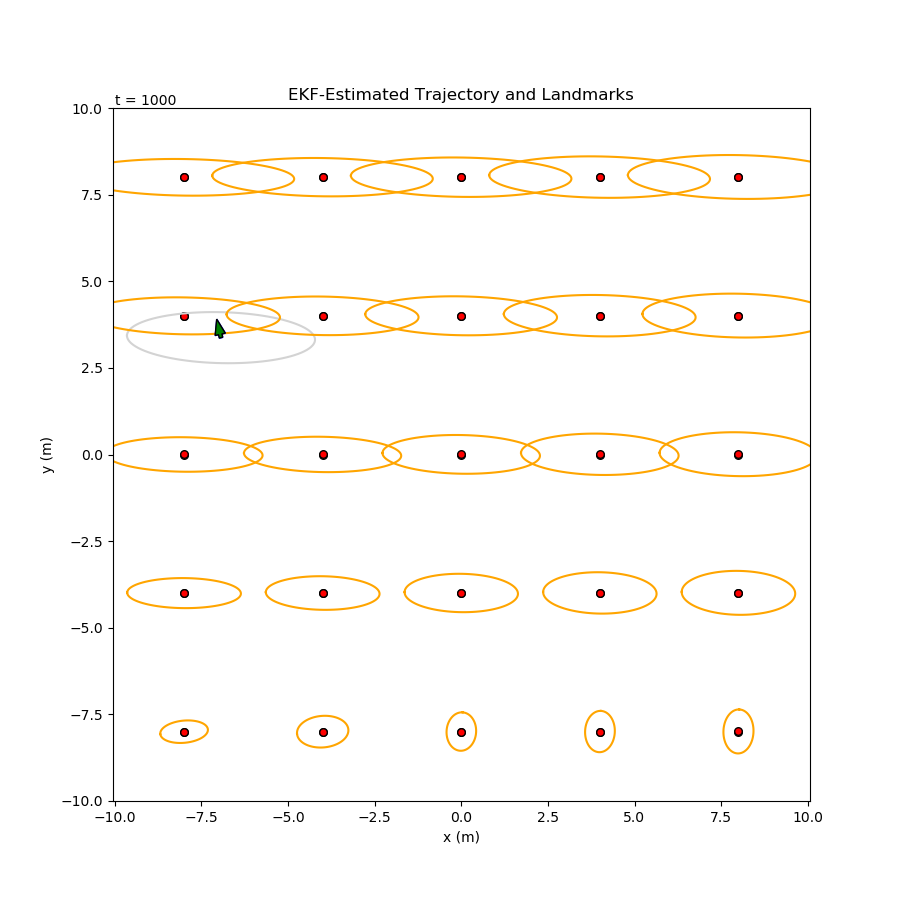
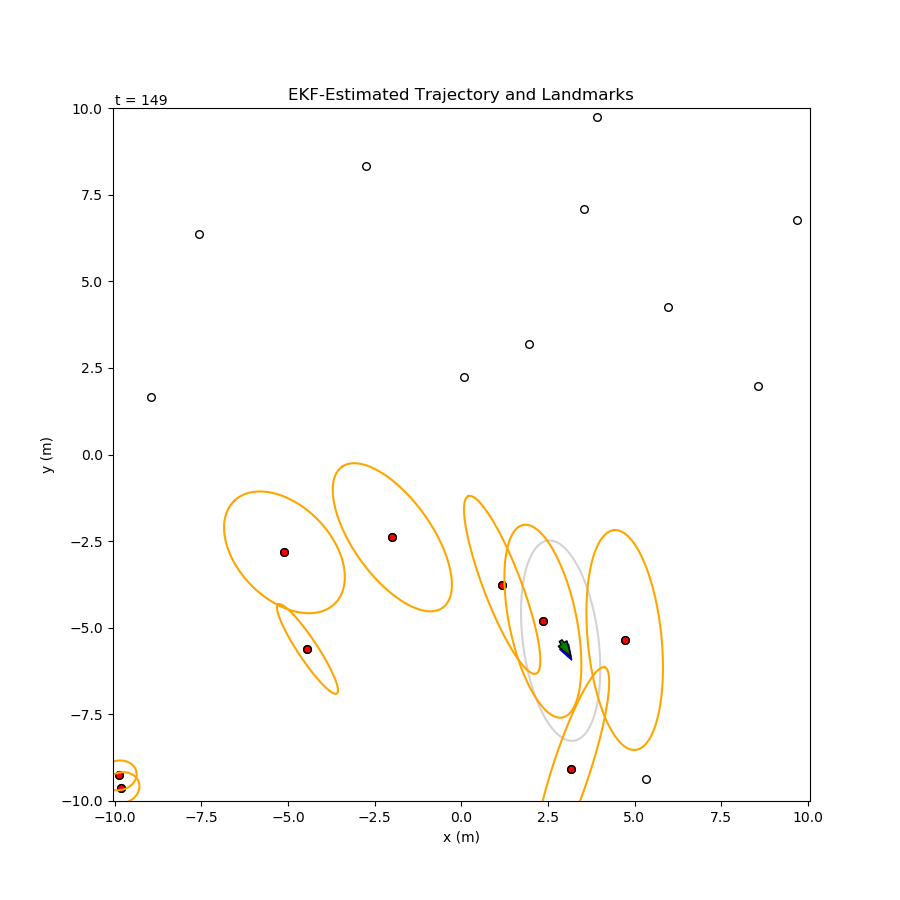
Discovered many build errors when updating UKFState. Moved all messages to data_pkg to remove interdependency. Modified all CMakeLists to get things working. Added UKF sigma points to UKFState message and showing them on plot.

diff --git a/ekf_ws/src/data_pkg/src/plotting_node.py b/ekf_ws/src/data_pkg/src/plotting_node.py
@@ -9,9 +9,7 @@ import rospkg
 from std_msgs.msg import Float32MultiArray
 from geometry_msgs.msg import Vector3
 from sensor_msgs.msg import Image
-from ekf_pkg.msg import EKFState
-from ukf_pkg.msg import UKFState
-from pf_pkg.msg import PFState
+from data_pkg.msg import EKFState, UKFState, PFState
 from matplotlib.backend_bases import MouseButton
 from matplotlib import pyplot as plt
 import numpy as np
@@ -67,11 +65,11 @@ def update_plot(filter:str, msg):
         plots["timestep"].remove()
     plots["timestep"] = plt.text(-Config.params["MAP_BOUND"], Config.params["MAP_BOUND"], 't = '+str(msg.timestep), horizontalalignment='left', verticalalignment='bottom', zorder=2)
 
-    ####################### EKF SLAM #########################
+    ####################### EKF/UKF SLAM #########################
     if filter == "ekf" or filter == "ukf":
-        plt.title("EKF-Estimated Trajectory and Landmarks")
+        plt.title(filter.upper()+"-Estimated Trajectory and Landmarks")
         ################ VEH POS #################
-        # plot current EKF-estimated veh pos.
+        # plot current estimated veh pos.
         if not Config.params["SHOW_ENTIRE_TRAJ"] and "veh_pos_est" in plots.keys():
             plots["veh_pos_est"].remove()
             del plots["veh_pos_est"]
@@ -113,6 +111,27 @@ def update_plot(filter:str, msg):
                 lm_ell = cov_to_ellipse(np.array([[msg.P[3+2*i],msg.P[4+2*i]],[msg.P[n+3+2*i],msg.P[n+4+2*i]]]))
                 # plot its ellipse.
                 plots["lm_cov_est"][lm_id], = plt.plot(lm_x[i]+lm_ell[0,:] , lm_y[i]+lm_ell[1,:],'orange', zorder=1)
+        
+        ############## UKF SIGMA POINTS ##################
+        if filter == "ukf":
+            ######### current sigma pts.
+            X_x = [msg.X[i] for i in range(0,len(msg.X),3)]
+            X_y = [msg.X[i] for i in range(1,len(msg.X),3)]
+            # remove old points.
+            if "sigma_pts" in plots.keys():
+                plots["sigma_pts"].remove()
+                del plots["sigma_pts"]
+            # plot sigma points.
+            plots["sigma_pts"] = plt.scatter(X_x, X_y, s=30, color="tab:olive", zorder=1)
+            ######### predicted sigma pts.
+            X_x = [msg.X_pred[i] for i in range(0,len(msg.X_pred),3)]
+            X_y = [msg.X_pred[i] for i in range(1,len(msg.X_pred),3)]
+            # remove old points.
+            if "sigma_pts_pred" in plots.keys():
+                plots["sigma_pts_pred"].remove()
+                del plots["sigma_pts_pred"]
+            # plot sigma points.
+            plots["sigma_pts_pred"] = plt.scatter(X_x, X_y, s=30, color="tab:cyan", zorder=1)
 
     ############## PARTICLE FILTER LOCALIZATION #####################
     elif filter == "pf":
@@ -153,7 +172,7 @@ def get_ekf_state(msg):
 # get the state published by the UKF.
 def get_ukf_state(msg):
     global fname
-    # set filename for EKF.
+    # set filename for UKF.
     fname = "ukf"
     # update the plot.
     update_plot("ukf", msg)

diff --git a/ekf_ws/src/ukf_pkg/src/ukf.cpp b/ekf_ws/src/ukf_pkg/src/ukf.cpp
@@ -42,9 +42,11 @@ void UKF::setTrueMap(std_msgs::Float32MultiArray::ConstPtr trueMapMsg) {
     this->map = trueMapMsg->data;    
 }
 
-ukf_pkg::UKFState UKF::getState() {
+data_pkg::UKFState UKF::getState() {
+    // state length for convenience.
+    int n = 2 * this->M + 3;
     // return the state as a message.
-    ukf_pkg::UKFState stateMsg;
+    data_pkg::UKFState stateMsg;
     // timestep.
     stateMsg.timestep = this->timestep;
     // vehicle pose.
@@ -54,7 +56,7 @@ ukf_pkg::UKFState UKF::getState() {
     // landmarks.
     stateMsg.M = this->M;
     std::vector<float> lm;
-    for (int i=0; i<M; ++i) {
+    for (int i=0; i<this->M; ++i) {
         lm.push_back((float) this->lm_IDs[i]);
         lm.push_back(this->x_t(3+i*2));
         lm.push_back(this->x_t(3+i*2+1));
@@ -62,12 +64,24 @@ ukf_pkg::UKFState UKF::getState() {
     stateMsg.landmarks = lm;
     // covariance. collapse all rows side by side into a vector.
     std::vector<float> p;
-    for (int i=0; i<2*M+3; ++i) {
-        for (int j=0; j<2*M+3; ++j) {
+    for (int i=0; i<n; ++i) {
+        for (int j=0; j<n; ++j) {
             p.push_back(this->P_t(i,j));
         }
     }
     stateMsg.P = p;
+    // sigma points. also collapse into a vector.
+    std::vector<float> sigma_pts;
+    std::vector<float> sigma_pts_propagated;
+    for (int i=0; i<n; ++i) {
+        for (int j=0; j<2*n+1; ++j) {
+            sigma_pts.push_back(this->X(i,j));
+            sigma_pts_propagated.push_back(this->X_pred(i,j));
+        }
+    }
+    stateMsg.X = sigma_pts;
+    stateMsg.X_pred = sigma_pts_propagated;
+
     return stateMsg;
 }
 

diff --git a/ekf_ws/src/data_pkg/src/sim_node.py b/ekf_ws/src/data_pkg/src/sim_node.py
@@ -150,13 +150,13 @@ def generate_full_trajectory():
 
 def generate_landmarks(map_type:str):
     """
-    Create a set of 20 landmarks forming the map.
+    Create a set of landmarks forming the map.
     """
     global landmarks
     # key = integer ID. value = (x,y) position.
     landmarks = {}
 
-    if map_type in ["demo", "demo_map"]:
+    if map_type == "demo":
         # force number of landmarks to match.
         Config.params["NUM_LANDMARKS"] = len(demo_map.keys()) 
         landmarks = demo_map
@@ -164,9 +164,9 @@ def generate_landmarks(map_type:str):
         # place landmarks on a grid filling the bounds.
         shift = Config.params["GRID_STEP"] / 2
         id = 0
-        for r in np.arange(-Config.params["MAP_BOUND"], Config.params["MAP_BOUND"], Config.params["GRID_STEP"]):
-            for c in np.arange(-Config.params["MAP_BOUND"], Config.params["MAP_BOUND"], Config.params["GRID_STEP"]):
-                landmarks[id] = (shift + r, shift + c)
+        for r in np.arange(-Config.params["MAP_BOUND"]+shift, Config.params["MAP_BOUND"], Config.params["GRID_STEP"]):
+            for c in np.arange(-Config.params["MAP_BOUND"]+shift, Config.params["MAP_BOUND"], Config.params["GRID_STEP"]):
+                landmarks[id] = (r, c)
                 id += 1
         # update number of landmarks used.
         Config.params["NUM_LANDMARKS"] = id

diff --git a/ekf_ws/src/ekf_pkg/src/ekf.cpp b/ekf_ws/src/ekf_pkg/src/ekf.cpp
@@ -155,8 +155,8 @@ void EKF::update(data_pkg::Command::ConstPtr cmdMsg, std_msgs::Float32MultiArray
 }
 
 // return the state as a message.
-ekf_pkg::EKFState EKF::getState() {
-    ekf_pkg::EKFState stateMsg;
+data_pkg::EKFState EKF::getState() {
+    data_pkg::EKFState stateMsg;
     // timestep.
     stateMsg.timestep = this->timestep;
     // vehicle pose.
@@ -166,7 +166,7 @@ ekf_pkg::EKFState EKF::getState() {
     // landmarks.
     stateMsg.M = this->M;
     std::vector<float> lm;
-    for (int i=0; i<M; ++i) {
+    for (int i=0; i<this->M; ++i) {
         lm.push_back((float) this->lm_IDs[i]);
         lm.push_back(this->x_t(3+i*2));
         lm.push_back(this->x_t(3+i*2+1));
@@ -174,8 +174,8 @@ ekf_pkg::EKFState EKF::getState() {
     stateMsg.landmarks = lm;
     // covariance. collapse all rows side by side into a vector.
     std::vector<float> p;
-    for (int i=0; i<2*M+3; ++i) {
-        for (int j=0; j<2*M+3; ++j) {
+    for (int i=0; i<2*this->M+3; ++i) {
+        for (int j=0; j<2*this->M+3; ++j) {
             p.push_back(this->P_t(i,j));
         }
     }

diff --git a/ekf_ws/src/ekf_pkg/src/ekf_node.cpp b/ekf_ws/src/ekf_pkg/src/ekf_node.cpp
@@ -61,7 +61,7 @@ void ekfIterate(const ros::TimerEvent& event) {
     // call the EKF's update function.
     ekf.update(cmdMsg, lmMeasMsg);
     // get the current state estimate.
-    ekf_pkg::EKFState stateMsg = ekf.getState();
+    data_pkg::EKFState stateMsg = ekf.getState();
     // publish it.
     statePub.publish(stateMsg);
 }
@@ -89,7 +89,7 @@ int main(int argc, char **argv) {
     ros::Subscriber cmdSub = node.subscribe("/command", 100, cmdCallback);
     ros::Subscriber lmMeasSub = node.subscribe("/landmark", 100, lmMeasCallback);
     // publish EKF state.
-    statePub = node.advertise<ekf_pkg::EKFState>("/state/ekf", 1);
+    statePub = node.advertise<data_pkg::EKFState>("/state/ekf", 1);
 
     // timer to update EKF at set frequency.
     ros::Timer ekfIterationTimer = node.createTimer(ros::Duration(DT), &ekfIterate, false);

diff --git a/ekf_ws/src/ukf_pkg/src/ukf_node.cpp b/ekf_ws/src/ukf_pkg/src/ukf_node.cpp
@@ -81,7 +81,7 @@ void ekfIterate(const ros::TimerEvent& event) {
         ukf.localizationUpdate(odomMsg, lmMeasMsg);
     }
     // get the current state estimate.
-    ukf_pkg::UKFState stateMsg = ukf.getState();
+    data_pkg::UKFState stateMsg = ukf.getState();
     // publish it.
     statePub.publish(stateMsg);
 }
@@ -116,7 +116,7 @@ int main(int argc, char **argv) {
     ros::Subscriber lmMeasSub = node.subscribe("/landmark", 100, lmMeasCallback);
     ros::Subscriber trueMapSub = node.subscribe("/truth/landmarks", 1, trueMapCallback);
     // publish state.
-    statePub = node.advertise<ukf_pkg::UKFState>("/state/ukf", 1);
+    statePub = node.advertise<data_pkg::UKFState>("/state/ukf", 1);
 
     // timer to update UKF at set frequency.
     ros::Timer ekfIterationTimer = node.createTimer(ros::Duration(DT), &ekfIterate, false);

diff --git a/ekf_ws/src/pf_pkg/src/pf.py b/ekf_ws/src/pf_pkg/src/pf.py
@@ -9,21 +9,9 @@ import numpy as np
 from random import random, choices
 from math import sin, cos, remainder, tau, atan2, pi, log, exp
 from scipy.stats import multivariate_normal, norm, uniform
-from pf_pkg.msg import PFState
+from data_pkg.msg import PFState
 
 class PF:
-# ODOM_D_MAX = 0.1
-# ODOM_TH_MAX = 0.0546
-# # noise to use for generating map for TSP solution.
-# LM_NOISE = 0.2
-# # how close the veh must get to a lm to mark it as visited in TSP soln.
-# VISITATION_THRESHOLD = 3.0
-
-# # ----- Measurements Gen -----
-# # vision constraints:
-# RANGE_MAX = 4.0
-# FOV_MIN = -3.141592653589793
-# FOV_MAX = 3.141592653589793
     def __init__(self, params, map):
         """
         Initialize the particles uniformly across the entire map.

diff --git a/ekf_ws/src/ukf_pkg/include/ukf_pkg/ukf.h b/ekf_ws/src/ukf_pkg/include/ukf_pkg/ukf.h
@@ -4,14 +4,13 @@
 #include <ros/ros.h>
 #include "geometry_msgs/Vector3.h"
 #include "std_msgs/Float32MultiArray.h"
-#include "ukf_pkg/UKFState.h"
+#include "data_pkg/UKFState.h"
 #include "data_pkg/Command.h"
 #include <eigen3/Eigen/Dense>
 #include <vector>
 #include <cmath>
 #include <unsupported/Eigen/MatrixFunctions>
 #include <eigen3/Eigen/Eigenvalues>
-
 
 #define pi 3.14159265358979323846
 
@@ -69,7 +68,7 @@ class UKF {
     Eigen::VectorXd motionModel(Eigen::VectorXd x, float u_d, float u_th);
     Eigen::VectorXd slamSensingModel(Eigen::VectorXd x, int lm_i);
     Eigen::VectorXd localizationSensingModel(Eigen::VectorXd x, int lm_i);
-    ukf_pkg::UKFState getState();
+    data_pkg::UKFState getState();
 };
 
 #endif

diff --git a/ekf_ws/src/ekf_pkg/include/ekf_pkg/ekf.h b/ekf_ws/src/ekf_pkg/include/ekf_pkg/ekf.h
@@ -4,7 +4,7 @@
 #include <ros/ros.h>
 #include "geometry_msgs/Vector3.h"
 #include "std_msgs/Float32MultiArray.h"
-#include "ekf_pkg/EKFState.h"
+#include "data_pkg/EKFState.h"
 #include "data_pkg/Command.h"
 #include <eigen3/Eigen/Dense>
 #include <vector>
@@ -52,7 +52,7 @@ class EKF {
     EKF();
     void init(float x_0, float y_0, float yaw_0);
     void update(data_pkg::Command::ConstPtr cmdMsg, std_msgs::Float32MultiArray::ConstPtr lmMeasMsg);
-    ekf_pkg::EKFState getState();
+    data_pkg::EKFState getState();
 };
 
 #endif

diff --git a/ekf_ws/src/planning_pkg/src/goal_pursuit_node.py b/ekf_ws/src/planning_pkg/src/goal_pursuit_node.py
@@ -9,8 +9,7 @@ from data_pkg.msg import Command
 from geometry_msgs.msg import Vector3
 from std_msgs.msg import Float32MultiArray
 from sensor_msgs.msg import Image
-from ekf_pkg.msg import EKFState
-from pf_pkg.msg import PFState
+from data_pkg.msg import EKFState, UKFState #, PFState
 from cv_bridge import CvBridge
 from pure_pursuit import PurePursuit
 from astar import Astar

diff --git a/ekf_ws/src/pf_pkg/src/pf_node.py b/ekf_ws/src/pf_pkg/src/pf_node.py
@@ -10,8 +10,7 @@ import rospkg
 from pf import PF
 from std_msgs.msg import Float32MultiArray
 from geometry_msgs.msg import Vector3
-from pf_pkg.msg import PFState
-import sys
+from data_pkg.msg import PFState
 
 ############ GLOBAL VARIABLES ###################
 params = {}
